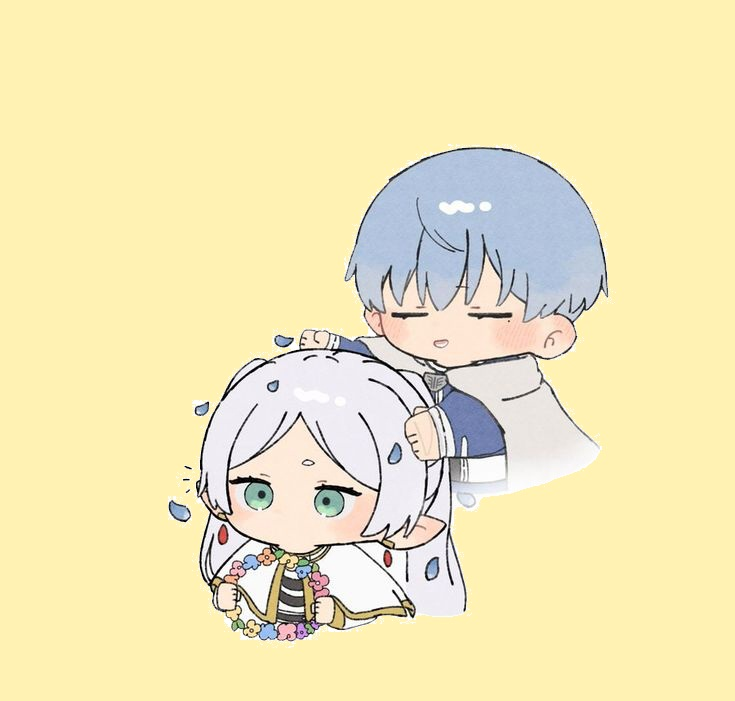
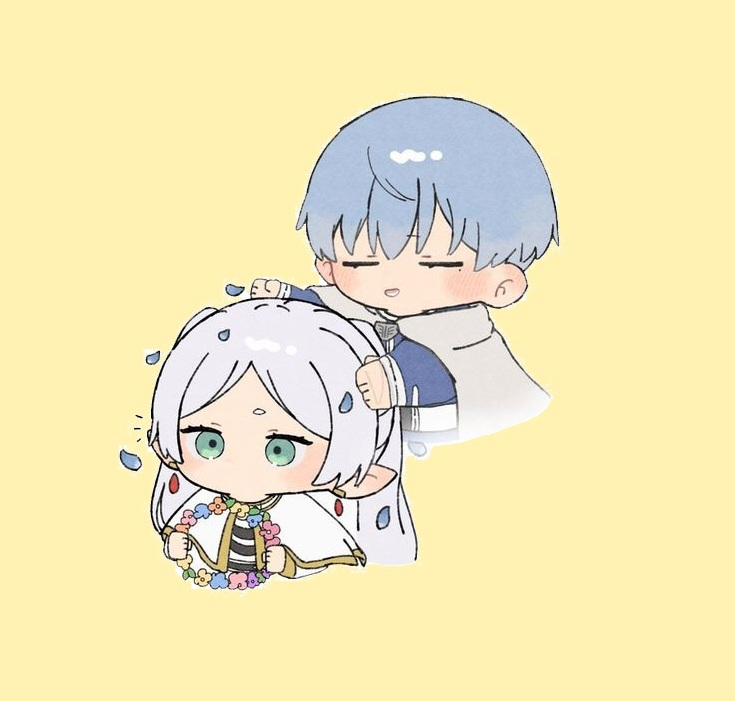
Add files via upload

Changed region(s): [[0.1497, 0.1198, 0.8381, 0.9287]]

diff --git a/style.css b/style.css
@@ -1,15 +1,24 @@
 *,
 .sticker{
-    display: flex;
+    display: block;
     /* background-color: #FFF2B3; */
     width: 100%;
-    height: 300px;
+    height: 600px;
     justify-content: center;
+
 }
 .frieren1{
     display: flex;
     width: 300px;
     align-items: center;
+    justify-content: center;
+}
+.frieren0{
+    display: flex;
+    width: 415px;
+    height: 600px;
+    align-items: center;
+    justify-content: center;
 }
 body{
     width: 100%;
@@ -35,11 +44,41 @@ body{
     font-family: Arial, Helvetica, sans-serif;
     
 }
+.kata1{
+    margin: 0;
+    padding: 0;
+    width: 100%;
+    height: 250px;
+    color: black;
+    text-decoration: double;
+    display: flex;
+    font-size: 20px;
+    text-align: center;
+    align-items: center;
+    justify-content: center;
+    font-family: Arial, Helvetica, sans-serif;
+    
+}
 .roman{
     margin: 0;
     padding: 0;
     width: 100%;
-    height: 400px;
+    height: 550px;
+    color: black;
+    text-decoration: double;
+    display: flex;
+    font-size: 15px;
+    text-align: left;
+    align-items: center;
+    justify-content: center;
+    font-family: Arial, Helvetica, sans-serif;
+    
+}
+.judul{
+    margin: 0;
+    padding: 0;
+    width: 100%;
+    height: 50px;
     color: black;
     text-decoration: double;
     display: flex;
@@ -50,6 +89,7 @@ body{
     font-family: Arial, Helvetica, sans-serif;
     
 }
+
 .katain{
     margin: 0;
     padding: 0;
@@ -77,12 +117,12 @@ head{
     height: 1000px;
 }
 .left{
-    width: 25%;
-    height: 1000px;
+    width: 15%;
+    height: 1500px;
 }
 .mid{
-    width: 50%;
-    height: 1000px;
+    width: 70%;
+    height: 1500px;
     display: block;
     margin: 0;
     padding: 0;
@@ -90,6 +130,7 @@ head{
 .quest{
     width: 100%;
     height: 50px;
+    display: flex;
 }
 .b-quest{
     width: 100%;
@@ -261,8 +302,8 @@ head{
     height: 100%;
 }
 .right{
-    width: 25%;
-    height: 1000px;
+    width: 15%;
+    height: 1500px;
 
 }
 /* .ul-quest{

diff --git a/test.html b/test.html
@@ -9,16 +9,35 @@
     <body>
         <!-- sticker -->
         <div class="sticker">
-            <div class="frieren1">
-                <img src="frieren himmel.jpg" alt="">
+            <div class="frieren0">
+                <img src="frieren himmel 3.png" alt="" class="frieren0">
             </div>
+            <!-- <div class="frieren1">
+                <img src="frieren himmel.jpg" alt="">
+            </div> -->
         </div>
         <!-- teks -->
         <div class="teks">
             <div class="left"></div>
             
             <div class="mid">
+                <p class="judul">
+                    春さんの手紙
+                </p>
+                
                 <p class="roman">
+                    こんにちは、春です <br>
+                    <br>
+                    
+                    ハッピーバレンタインデー、そうだね :D
+
+                    <br>
+                    <br>
+                    あなたのボーイフレンドでいられることにとても感謝しています。
+                    <br>
+                    <br>
+
+
                     そばにいたいよ<br>
                     君のために出来ることが 僕にあるかな<br>
                     いつも君に ずっと君に 笑っていてほしくてひまわり<br>
@@ -30,6 +49,10 @@
                     もしも 僕らが離れても<br>
                     それぞれ歩いていく その先で<br>
                     また 出会えると信じて<br>
+                    <br>
+                    .. / .-.. --- ...- . / -.-- --- ..- <br>
+                    (コードを解読してください :D) <br>
+                    <br>
                 </p>
                 
                 <p class="kata" id="kata">
@@ -47,6 +70,7 @@
                     </ul> -->
                    
                 </div>
+               
             </div>
             
             <!-- <input type="color"> -->

diff --git a/script.js b/script.js
@@ -25,7 +25,7 @@ let klik = 0;
             element.id = "b-quest2";
             huruf.classList.add("a-quest2");
             huruf.id = "a-quest2";
-            kata.textContent = "ええ、 なんで？？:(";
+            kata.textContent = "なんで,なんで,なんで,なんで,なんで？？:(";
             
         } 
         else if (clickCount == 2) {
@@ -33,12 +33,15 @@ let klik = 0;
             element.id = "b-quest3";
             huruf.classList.add("a-quest3");
             huruf.id = "a-quest3";
+            kata.textContent = "これは不可能です:(";
             
         } else if (clickCount == 3) {
             element.classList.add("b-quest4");
             element.id = "b-quest4";
             huruf.classList.add("a-quest4");
             huruf.id = "a-quest4";
+            kata.textContent = "冗談じゃないですよね？？";
+
         } else if (clickCount == 4) {
             element.classList.add("b-quest5");
             element.id = "b-quest5";
@@ -46,6 +49,7 @@ let klik = 0;
             huruf.id = "a-quest5";
             liQuest.classList.add("li-questb2");
             liQuest.id = "li-questb2";
+            kata.textContent = "ハハハ、もうどこにも行けないから… :b";
         }
             
         clickCount++;

diff --git a/arigato.html b/arigato.html
@@ -9,22 +9,33 @@
     <body>
         <!-- sticker -->
         <div class="sticker">
-            <div class="frieren1">
-                <img src="frieren himmel.jpg" alt="">
+            <div class="frieren0">
+                <img src="frieren himmel 3.png" alt="" class="frieren0">
             </div>
+            <!-- <div class="frieren1">
+                <img src="frieren himmel.jpg" alt="">
+            </div> -->
         </div>
         <!-- teks -->
         <div class="teks">
             <div class="left"></div>
             
             <div class="mid">
-                <p class="kata">
-                    深刻な？とても嬉しいです、ありがとう :D
+                
+                <p class="kata1" id="kata">
+                    ありがと ございました, 私もあなたのことが本当に好きです
+                    <br>
+                    <br>
+                    あなたはまだ私のものです、いいですか？ :D
                 </p>
                 
+               
             </div>
+            
             <!-- <input type="color"> -->
             <div class="right"></div>
         </div>
+        
     </body>
+    <script src="script.js"></script>
 </html>
